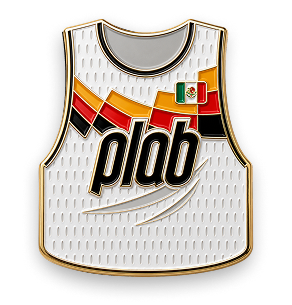
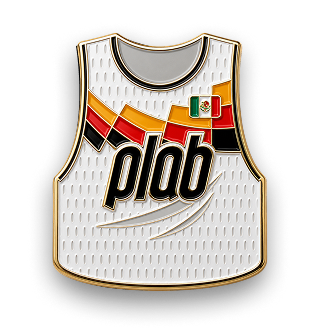
feat: 미션 탭 조끼 컬렉션 섹션, 갓차 모달, 스토어 탭 복구
- 미션 탭에 조끼 컬렉션 섹션 추가 (3번째, 전체 보기 바텀시트)
- 갓차를 모달 UI로 개편 (회전 머신 + 상품 2열 그리드)
- 스토어 탭 복구, 토큰 잔액 미니멀 표시
- 보유 조끼: 노르웨이, 한국, 멕시코, 독일 (bibImage 등록)
- 조끼 컬렉션 네이밍 변경, 이미지 크기 확대

diff --git a/src/app/page.tsx b/src/app/page.tsx
@@ -83,7 +83,7 @@ const SCENARIO_DATA = {
   active: {
     label: "케이스2: 참여중 유저",
     desc: "프로필 생성 완료, 매치 참여 중",
-    ownedVests: ["KOR", "BRA", "FRA", "MEX", "GER"],
+    ownedVests: ["NOR", "KOR", "MEX", "GER"],
     packs: [
       { id: 1, type: "nations" as PackType, label: "네이션스팩", image: "/img/daily_pack.svg", guaranteedCountry: "GER", mockReward: { kind: "nations" as const, country: "GER" } },
       { id: 2, type: "nations" as PackType, label: "네이션스팩", image: "/img/daily_pack.svg", mockReward: { kind: "nations" as const, country: "JPN" } },
@@ -217,6 +217,7 @@ function VestPageInner() {
     { key: "friends", label: "친구" },
     { key: "collection", label: "컬렉션" },
     { key: "packs", label: "팩", badge: packCount > 0 ? packCount : undefined },
+    { key: "store", label: "스토어" },
   ];
 
   if (showIntro) {
@@ -619,7 +620,9 @@ function MainTab({
 }) {
   const [predictions, setPredictions] = useState(data.predictions.map(p => ({ ...p })));
   const [pickingSlot, setPickingSlot] = useState<number | null>(null);
+  const [collectionOpen, setCollectionOpen] = useState(false);
   useEscClose(pickingSlot !== null, () => setPickingSlot(null));
+  useEscClose(collectionOpen, () => setCollectionOpen(false));
   const [toast, setToast] = useState(false);
   const toastTimer = useRef<ReturnType<typeof setTimeout> | null>(null);
 
@@ -675,6 +678,38 @@ function MainTab({
 
       {/* 출석체크 미션 */}
       <AttendanceMission attendance={data.attendance} />
+
+      {/* 조끼 컬렉션 */}
+      <section className="rounded-2xl bg-gray-50 px-5 py-6">
+        <div className="flex items-center justify-between">
+          <h2 className="text-xl font-bold text-surface-dark">조끼 컬렉션</h2>
+          <span className="text-lg font-russo text-surface-dark">{data.ownedVests.length}<span className="text-sm font-sans text-on-surface-variant font-normal">/48</span></span>
+        </div>
+        {data.ownedVests.length > 0 ? (
+          <div className="mt-4 grid grid-cols-4 gap-2">
+            {data.ownedVests.slice(0, 4).map((code) => {
+              const country = COUNTRIES.find(c => c.code === code)!;
+              return (
+                <div key={code} className="flex items-center justify-center h-[100px]">
+                  {country.bibImage ? (
+                    <img src={country.bibImage} alt={country.nameKo} className="h-full object-contain" draggable={false} />
+                  ) : (
+                    <TwemojiFlag emoji={country.flag} size={42} />
+                  )}
+                </div>
+              );
+            })}
+          </div>
+        ) : (
+          <p className="mt-3 text-sm text-on-surface-variant">팩을 열어서 조끼를 모아보세요</p>
+        )}
+        <button
+          onClick={() => setCollectionOpen(true)}
+          className="mt-4 w-full rounded-xl border border-gray-200 py-3 text-sm font-bold text-surface-dark"
+        >
+          전체 보기
+        </button>
+      </section>
 
       {/* 우승국 예측 */}
       <section className="rounded-2xl bg-gray-50 px-5 py-8">
@@ -738,6 +773,32 @@ function MainTab({
           </div>
         )}
       </section>
+
+      {/* Collection Bottom Sheet */}
+      {collectionOpen && (
+        <div className="fixed inset-0 z-[200] flex items-end lg:items-center lg:justify-center" onClick={() => setCollectionOpen(false)}>
+          <div className="absolute inset-0 bg-[rgba(0,0,0,0.4)]" />
+          <div className="relative w-full lg:max-w-md rounded-t-3xl lg:rounded-3xl bg-white pt-6 pb-10 max-h-[80vh] flex flex-col" onClick={e => e.stopPropagation()}>
+            <div className="mx-auto mb-4 h-1 w-10 rounded-full bg-gray-200 lg:hidden" />
+            <div className="flex items-center justify-between px-6 mb-4">
+              <h3 className="text-lg font-bold text-surface-dark">조끼 컬렉션</h3>
+              <span className="text-lg font-russo text-surface-dark">{data.ownedVests.length}<span className="text-sm font-sans text-on-surface-variant font-normal">/48</span></span>
+            </div>
+            <div className="flex-1 overflow-y-auto px-6">
+              <div className="grid grid-cols-4 gap-2">
+                {COUNTRIES.map((country) => (
+                  <VestCard key={country.code} country={country} owned={data.ownedVests.includes(country.code)} />
+                ))}
+              </div>
+            </div>
+            <div className="px-6 pt-4">
+              <button onClick={() => setCollectionOpen(false)} className="w-full rounded-xl bg-surface-dark py-3 text-sm font-bold text-white">
+                닫기
+              </button>
+            </div>
+          </div>
+        </div>
+      )}
 
       {/* Vest Picker Modal */}
       {pickingSlot !== null && (
@@ -1835,9 +1896,32 @@ const STORE_ITEMS = [
   },
 ];
 
+const GACHA_POOL = [
+  { name: "플랩 크루 삭스", emoji: "🧦", rarity: "common" },
+  { name: "WC26 핀 뱃지", emoji: "📌", rarity: "common" },
+  { name: "프로필 생성권 10개", emoji: "🎨", rarity: "common" },
+  { name: "플랩 스웨트 백", emoji: "👜", rarity: "uncommon" },
+  { name: "플랩 팀 조끼", emoji: "🦺", rarity: "uncommon" },
+  { name: "플랩 트레이닝 캡", emoji: "🧢", rarity: "rare" },
+  { name: "플랩 오피셜 소셜매치볼", emoji: "⚽", rarity: "rare" },
+  { name: "대한민국 국가대표 유니폼", emoji: "👕", rarity: "legendary" },
+];
+
+const RARITY_COLORS: Record<string, { bg: string; text: string; label: string }> = {
+  common: { bg: "bg-gray-100", text: "text-[#676d7e]", label: "일반" },
+  uncommon: { bg: "bg-blue-50", text: "text-[#1570ff]", label: "고급" },
+  rare: { bg: "bg-purple-50", text: "text-purple-600", label: "희귀" },
+  legendary: { bg: "bg-amber-50", text: "text-amber-600", label: "전설" },
+};
+
 function StoreTab({ data }: { data: ScenarioData }) {
   const [selectedItem, setSelectedItem] = useState<(typeof STORE_ITEMS)[0] | null>(null);
+  const [gachaOpen, setGachaOpen] = useState(false);
+  const [gachaResult, setGachaResult] = useState<(typeof GACHA_POOL)[0] | null>(null);
+  const [gachaSpinning, setGachaSpinning] = useState(false);
   useEscClose(!!selectedItem, () => setSelectedItem(null));
+  useEscClose(gachaOpen && !gachaResult, () => setGachaOpen(false));
+  useEscClose(!!gachaResult, () => { setGachaResult(null); setGachaOpen(false); });
 
   useEffect(() => {
     if (selectedItem) {
@@ -1851,23 +1935,129 @@ function StoreTab({ data }: { data: ScenarioData }) {
   return (
     <section className="bg-white px-5 py-8 overflow-hidden">
       {/* Token Balance */}
-      <div className="rounded-2xl bg-surface-dark p-5">
+      <div className="flex items-center gap-2">
+        <img src="/img/token.svg" alt="token" className="h-6 w-6" draggable={false} />
+        <span className="text-2xl font-russo text-surface-dark">{data.tokens.toLocaleString()}</span>
+        <span className="text-sm text-on-surface-variant">토큰</span>
+      </div>
+
+      {/* Gacha Card */}
+      <button
+        onClick={() => setGachaOpen(true)}
+        className="mt-6 w-full rounded-2xl bg-surface-dark p-5 text-left cursor-pointer active:scale-[0.99] transition-transform"
+      >
         <div className="flex items-center justify-between">
-          <div className="flex items-center gap-3">
-            <img src="/img/token.svg" alt="token" className="h-11 w-11" draggable={false} />
-            <div>
-              <p className="text-xs font-medium text-white/60">보유 토큰</p>
-              <p className="mt-0.5 text-3xl font-russo text-accent-green">{data.tokens.toLocaleString()}</p>
+          <div>
+            <h2 className="text-lg font-bold text-white">🎰 굿즈 뽑기</h2>
+            <p className="mt-1 text-sm text-white/50">랜덤으로 굿즈를 획득하세요!</p>
+          </div>
+          <div className="flex items-center gap-1 rounded-full bg-white/10 px-3 py-1.5">
+            <img src="/img/token.svg" alt="token" className="h-4 w-4" draggable={false} />
+            <span className="text-sm font-russo text-accent-green">10</span>
+          </div>
+        </div>
+      </button>
+
+      {/* Gacha Modal */}
+      {gachaOpen && !gachaResult && (
+        <div className="fixed inset-0 z-[200] flex items-end lg:items-center lg:justify-center" onClick={() => !gachaSpinning && setGachaOpen(false)}>
+          <div className="absolute inset-0 bg-[rgba(0,0,0,0.5)]" />
+          <div className="relative w-full lg:max-w-md rounded-t-3xl lg:rounded-3xl bg-white pt-6 pb-10 max-h-[85vh] flex flex-col" onClick={e => e.stopPropagation()}>
+            <div className="mx-auto mb-4 h-1 w-10 rounded-full bg-gray-200 lg:hidden" />
+
+            <div className="px-6">
+              <h3 className="text-xl font-bold text-surface-dark text-center">굿즈 뽑기</h3>
+              <p className="mt-1 text-sm text-on-surface-variant text-center">1회 10토큰으로 랜덤 굿즈를 뽑아보세요</p>
+            </div>
+
+            {/* Gacha Machine */}
+            <div className="mt-6 flex flex-col items-center px-6">
+              <div className={`relative w-32 h-32 rounded-full flex items-center justify-center text-6xl ${gachaSpinning ? "animate-spin" : ""}`} style={{ background: "conic-gradient(#FF4029, #1570FF, #FFBE1A, #E0FF47, #96ff62, #FF4029)", animationDuration: "0.5s" }}>
+                <div className="w-24 h-24 rounded-full bg-white flex items-center justify-center text-5xl">
+                  {gachaSpinning ? "✨" : "🎰"}
+                </div>
+              </div>
+
+              <button
+                onClick={() => {
+                  if (gachaSpinning || data.tokens < 10) return;
+                  setGachaSpinning(true);
+                  setTimeout(() => {
+                    const result = GACHA_POOL[Math.floor(Math.random() * GACHA_POOL.length)];
+                    setGachaResult(result);
+                    setGachaSpinning(false);
+                  }, 2000);
+                }}
+                disabled={data.tokens < 10 || gachaSpinning}
+                className={`mt-6 w-full max-w-[280px] rounded-xl py-4 text-sm font-bold flex items-center justify-center gap-2 transition-all ${
+                  gachaSpinning ? "bg-gray-200 text-on-surface-variant" : data.tokens < 10 ? "bg-gray-200 text-on-surface-variant" : "bg-surface-dark text-white active:scale-[0.98]"
+                }`}
+              >
+                {gachaSpinning ? (
+                  <>뽑는 중...</>
+                ) : (
+                  <>
+                    뽑기
+                    <span className="flex items-center gap-1 rounded-full bg-white/20 px-2 py-0.5 text-[11px]">
+                      <img src="/img/token.svg" alt="" className="h-3 w-3" /> 10
+                    </span>
+                  </>
+                )}
+              </button>
+            </div>
+
+            {/* Pool List */}
+            <div className="mt-6 px-6 flex-1 overflow-y-auto">
+              <p className="text-xs font-bold text-on-surface-variant mb-3">획득 가능 상품</p>
+              <div className="grid grid-cols-2 gap-2">
+                {GACHA_POOL.map((item) => {
+                  const r = RARITY_COLORS[item.rarity];
+                  return (
+                    <div key={item.name} className="flex flex-col items-center gap-1.5 rounded-xl bg-gray-50 px-3 py-4">
+                      <span className="text-3xl">{item.emoji}</span>
+                      <p className="text-xs font-bold text-surface-dark text-center leading-tight">{item.name}</p>
+                      <span className={`text-[10px] font-bold px-2 py-0.5 rounded-full ${r.bg} ${r.text}`}>{r.label}</span>
+                    </div>
+                  );
+                })}
+              </div>
             </div>
           </div>
-          <button className="rounded-xl bg-accent-green px-4 py-2.5 text-sm font-bold text-surface-dark">
-            충전하기
-          </button>
         </div>
-        <div className="mt-3 flex items-center gap-2 text-[11px] text-white/50">
-          <span>💡 리워드팩 오픈으로 토큰을 획득할 수 있어요</span>
+      )}
+
+      {/* Gacha Result Modal */}
+      {gachaResult && (
+        <div className="fixed inset-0 z-[210] flex items-center justify-center">
+          <div className="absolute inset-0 bg-[rgba(0,0,0,0.7)]" />
+          <div className="relative flex flex-col items-center bg-white rounded-3xl px-8 pt-10 pb-8 w-[300px] shadow-2xl" onClick={e => e.stopPropagation()}>
+            <span className={`text-[10px] font-bold uppercase tracking-widest ${RARITY_COLORS[gachaResult.rarity].text}`}>
+              {RARITY_COLORS[gachaResult.rarity].label}
+            </span>
+            <div className="mt-5 flex h-24 w-24 items-center justify-center rounded-full bg-gray-50 text-6xl animate-vest-pop">
+              {gachaResult.emoji}
+            </div>
+            <p className="mt-5 text-lg font-bold text-surface-dark text-center">{gachaResult.name}</p>
+            <p className="mt-1 text-sm text-on-surface-variant">축하합니다! 🎉</p>
+            <div className="mt-6 w-full flex flex-col gap-2">
+              <button
+                onClick={() => {
+                  setGachaResult(null);
+                }}
+                className="w-full rounded-xl bg-surface-dark py-3.5 text-sm font-bold text-white"
+              >
+                한번 더 뽑기
+              </button>
+              <button
+                onClick={() => { setGachaResult(null); setGachaOpen(false); }}
+                className="w-full py-2 text-sm text-on-surface-variant"
+              >
+                닫기
+              </button>
+            </div>
+          </div>
         </div>
-      </div>
+      )}
 
       {/* Store Items */}
       <div className="mt-6">

diff --git a/src/data/countries.ts b/src/data/countries.ts
@@ -13,7 +13,7 @@ export const COUNTRIES: Country[] = [
   // Group A
   { code: "MEX", name: "Mexico", nameKo: "멕시코", flag: "🇲🇽", group: "A", primary: "#006847", secondary: "#ce1126", bibImage: "/img/bibs_mexico.png" },
   { code: "RSA", name: "South Africa", nameKo: "남아공", flag: "🇿🇦", group: "A", primary: "#007749", secondary: "#ffb81c" },
-  { code: "KOR", name: "South Korea", nameKo: "대한민국", flag: "🇰🇷", group: "A", primary: "#c1272d", secondary: "#0047a0" },
+  { code: "KOR", name: "South Korea", nameKo: "대한민국", flag: "🇰🇷", group: "A", primary: "#c1272d", secondary: "#0047a0", bibImage: "/img/bibs_korea.png" },
   { code: "CZE", name: "Czechia", nameKo: "체코", flag: "🇨🇿", group: "A", primary: "#d7141a", secondary: "#11457e" },
   // Group B
   { code: "CAN", name: "Canada", nameKo: "캐나다", flag: "🇨🇦", group: "B", primary: "#ff0000", secondary: "#ffffff" },
@@ -54,7 +54,7 @@ export const COUNTRIES: Country[] = [
   { code: "FRA", name: "France", nameKo: "프랑스", flag: "🇫🇷", group: "I", primary: "#002395", secondary: "#ffffff" },
   { code: "SEN", name: "Senegal", nameKo: "세네갈", flag: "🇸🇳", group: "I", primary: "#ffffff", secondary: "#00853f" },
   { code: "IRQ", name: "Iraq", nameKo: "이라크", flag: "🇮🇶", group: "I", primary: "#ffffff", secondary: "#007a3d" },
-  { code: "NOR", name: "Norway", nameKo: "노르웨이", flag: "🇳🇴", group: "I", primary: "#c1272d", secondary: "#002868" },
+  { code: "NOR", name: "Norway", nameKo: "노르웨이", flag: "🇳🇴", group: "I", primary: "#c1272d", secondary: "#002868", bibImage: "/img/bibs_norway.png" },
   // Group J
   { code: "ARG", name: "Argentina", nameKo: "아르헨티나", flag: "🇦🇷", group: "J", primary: "#75aadb", secondary: "#ffffff" },
   { code: "ALG", name: "Algeria", nameKo: "알제리", flag: "🇩🇿", group: "J", primary: "#ffffff", secondary: "#006233" },